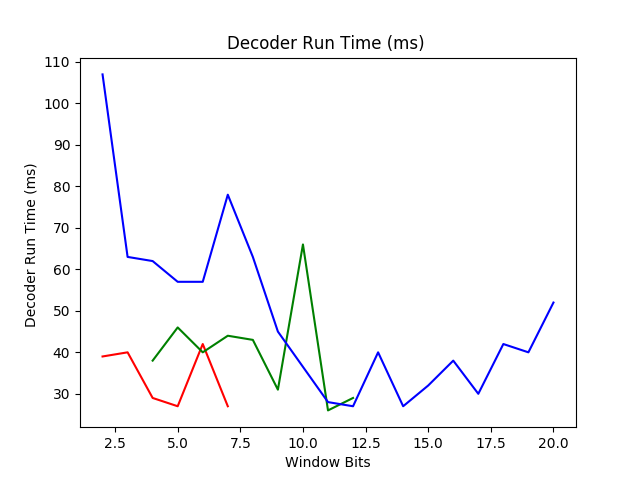
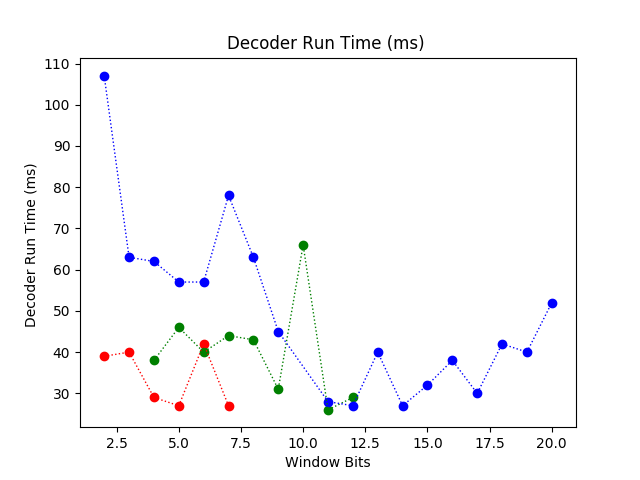
fixed some stuff on graphs

diff --git a/Script_Writing.py b/Script_Writing.py
@@ -14,7 +14,6 @@ def openFile(fileName, mode):
 # Window Bits, Length Bits, Encoding Time Taken (ms), Decoding Time Taken (ms), Compression Rate (Original / Compressed)
 def plotGraph(fileName):
     content = openFile(fileName, "r").split("&")
-    print(len(content[1]))
     titleNames = ["Encoder Run Time " + ("(s)" if len(content[1]) > 4 else "(ms)"), "Decoder Run Time (ms) "]
     content = content[0].split("#")
     windowSizes = [[], [], []]
@@ -35,7 +34,8 @@ def plotGraph(fileName):
         plt.xlabel('Window Bits')
         plt.ylabel(titleNames[graphIndex])
         for parameterIndex in range(len(windowSizes)):
-            plt.plot(windowSizes[parameterIndex], parameters[graphIndex][parameterIndex], color=color[parameterIndex])
+            plt.scatter(windowSizes[parameterIndex], parameters[graphIndex][parameterIndex], color=color[parameterIndex])
+            plt.plot(windowSizes[parameterIndex], parameters[graphIndex][parameterIndex], color=color[parameterIndex], linewidth=1, linestyle=':')
         plt.savefig(os.getcwd() + "/Graph Files/" + fileName + " " + titleNames[graphIndex] + ".png")
         plt.close()
 
@@ -67,7 +67,6 @@ def cleanHuffman(fileName):
     content = open(os.getcwd() + "/log Files/MacHuffman" + fileName + ".log", "r").read()
     file = open(os.getcwd() + "/Log Files/MacHuffman" + fileName + ".log", "w")
     file.write(content.split("\n")[0])
-
 
 for file in fileNames:
     plotGraph(file)
